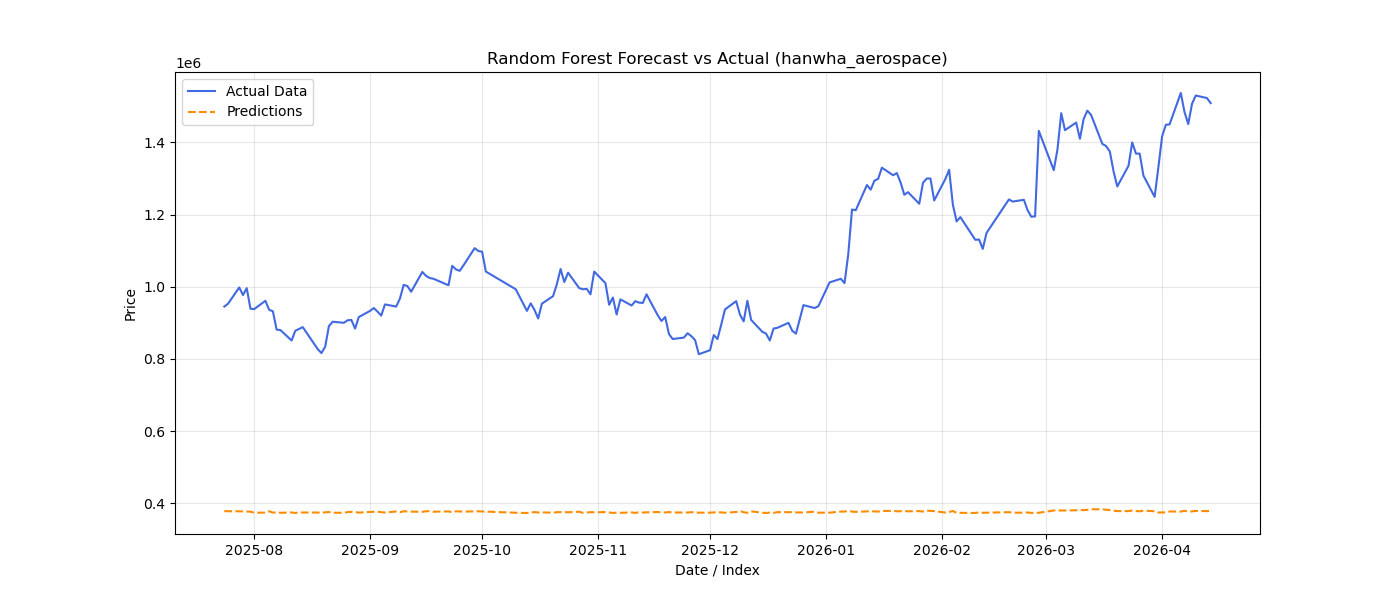
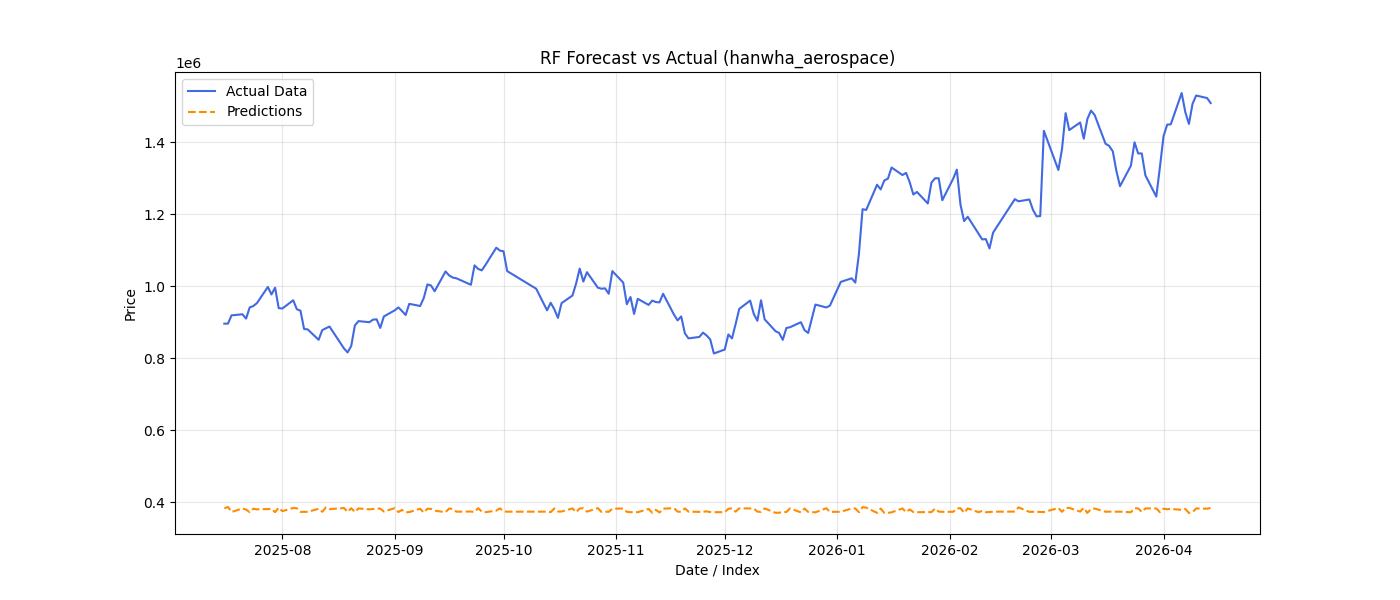
feat: implement ANN model, update feature engineering parameters, and add MBE metric to evaluation pipeline

diff --git a/src/train_ai_pipeline.py b/src/train_ai_pipeline.py
@@ -1,6 +1,7 @@
 from pathlib import Path
 import os
 import pandas as pd
+from sklearn.preprocessing import MinMaxScaler
 
 from src.data_loader import load_price_data
 from src.preprocess import (
@@ -14,27 +15,18 @@ from src.feature_engineering import (
     add_price_structure_features,
 )
 from src.split import split_time_series
-from src.ai_model import train_ai_model, predict_ai_model
+from src.ai_model import train_rf_model, train_ann_model, predict_ai_model
 from src.evaluate import evaluate_and_plot
 
 
 FEATURE_COLS = [
-    "Open",
-    "High",
-    "Low",
-    "Close",
     "Volume",
-    "ma_5",
-    "ma_20",
-    "ma_60",
-    "simple_return",
-    "log_return",
-    "volatility_5",
-    "volatility_20",
+    "ma_7",
+    "ma_14",
+    "ma_21",
+    "volatility_7",
     "hl_diff",
-    "oc_diff",
-    "close_ma5_gap",
-    "close_ma20_gap",
+    "oc_diff"
 ]
 
 TARGET_COL = "target_next_close"
@@ -42,7 +34,7 @@ TARGET_COL = "target_next_close"
 
 def train_ai_pipeline(data_name: str, file_path: str):
     print("=" * 60)
-    print(f"[AI 모델] {data_name} - Random Forest 파이프라인 시작")
+    print(f"[AI 모델] {data_name} - RF & ANN 파이프라인 시작")
     print("=" * 60)
 
     # 1. 데이터 불러오기
@@ -68,61 +60,93 @@ def train_ai_pipeline(data_name: str, file_path: str):
     print(f"  Valid: {val_df.shape}")
     print(f"  Test : {test_df.shape}")
 
-    # 6. 입력/정답 분리
-    X_train = train_df[FEATURE_COLS]
+    # 6. 입력/정답 분리 및 스케일링
+    X_train_raw = train_df[FEATURE_COLS]
     y_train = train_df[TARGET_COL]
 
-    X_test = test_df[FEATURE_COLS]
+    X_test_raw = test_df[FEATURE_COLS]
     y_test = test_df[TARGET_COL]
 
-    # 7. 모델 학습
-    model = train_ai_model(X_train, y_train)
+    scaler = MinMaxScaler()
+    X_train = scaler.fit_transform(X_train_raw)
+    X_test = scaler.transform(X_test_raw)
 
-    # 8. 예측
-    y_pred = predict_ai_model(model, X_test)
-
-    # 9. 평가용 시리즈 변환
     y_test_series = pd.Series(y_test.values, index=test_df["Date"], name="Actual")
-    y_pred_series = pd.Series(y_pred, index=test_df["Date"], name="Predicted")
 
-    # 10. 평가 및 그래프 저장
-    metrics = evaluate_and_plot(
+    # 7. Random Forest 모델 학습 및 평가
+    print(f"\n[{data_name}] Random Forest 학습 중...")
+    rf_model = train_rf_model(X_train, y_train)
+    rf_pred = predict_ai_model(rf_model, X_test)
+    rf_pred_series = pd.Series(rf_pred, index=test_df["Date"], name="Predicted")
+    
+    rf_metrics = evaluate_and_plot(
         y_true=y_test_series,
-        y_pred=y_pred_series,
-        title=f"Random Forest Forecast vs Actual ({data_name})",
+        y_pred=rf_pred_series,
+        title=f"RF Forecast vs Actual ({data_name})",
         save_dir="results/figures",
         data_name=f"rf_{data_name}",
     )
+    rf_metrics["model"] = "Random Forest"
 
-    print(f"[완료] {data_name} Random Forest 파이프라인 완료")
-    return model, metrics
+    # 8. ANN 모델 학습 및 평가
+    print(f"\n[{data_name}] ANN 학습 중...")
+    ann_model = train_ann_model(X_train, y_train)
+    ann_pred = predict_ai_model(ann_model, X_test)
+    ann_pred_series = pd.Series(ann_pred, index=test_df["Date"], name="Predicted")
+
+    ann_metrics = evaluate_and_plot(
+        y_true=y_test_series,
+        y_pred=ann_pred_series,
+        title=f"ANN Forecast vs Actual ({data_name})",
+        save_dir="results/figures",
+        data_name=f"ann_{data_name}",
+    )
+    ann_metrics["model"] = "ANN"
+
+    print(f"[완료] {data_name} 파이프라인 완료")
+    return rf_metrics, ann_metrics
 
 
 def train_all_ai_models(raw_data_dir="data/rawdata"):
+    target_companies = [
+        "hanwha_aerospace", "lig_nex1", "snt_dynamics", "firstec",
+        "samsung_electronics", "sk_hynix", "wonik_ips", "ia",
+        "rtx", "aerovironment", "draganfly", "nvidia", "axt", "maxlinear"
+    ]
+    
     csv_files = [f for f in os.listdir(raw_data_dir) if f.endswith(".csv")]
+    
+    filtered_files = []
+    for f in csv_files:
+        data_name = f.replace("_5y.csv", "").replace(".csv", "")
+        if data_name in target_companies:
+            filtered_files.append(f)
+
     all_metrics = []
 
-    print(f"총 {len(csv_files)}개 종목 RF 파이프라인 실행 시작")
+    print(f"총 {len(filtered_files)}개 종목 RF & ANN 파이프라인 실행 시작")
 
-    for f in csv_files:
+    for f in filtered_files:
         data_name = f.replace("_5y.csv", "").replace(".csv", "")
         file_path = os.path.join(raw_data_dir, f)
 
         try:
-            _, metrics = train_ai_pipeline(data_name, file_path)
-            metrics["data_name"] = data_name
-            all_metrics.append(metrics)
+            rf_metrics, ann_metrics = train_ai_pipeline(data_name, file_path)
+            rf_metrics["data_name"] = data_name
+            ann_metrics["data_name"] = data_name
+            all_metrics.append(rf_metrics)
+            all_metrics.append(ann_metrics)
         except Exception as e:
             print(f"[{data_name}] 오류 발생: {e}")
 
     df_metrics = pd.DataFrame(all_metrics)
 
     Path("results/metrics").mkdir(parents=True, exist_ok=True)
-    save_path = "results/metrics/random_forest_summary.csv"
+    save_path = "results/metrics/ai_models_summary.csv"
     df_metrics.to_csv(save_path, index=False, encoding="utf-8-sig")
 
     print("=" * 60)
-    print(f"전체 RF 결과 저장 완료: {save_path}")
+    print(f"전체 AI 모델 결과 저장 완료: {save_path}")
     print("=" * 60)
 
     return df_metrics

diff --git a/src/feature_engineering.py b/src/feature_engineering.py
@@ -3,16 +3,15 @@ import pandas as pd
 
 def add_moving_averages(df: pd.DataFrame, price_col: str = "Close") -> pd.DataFrame:
     result = df.copy()
-    result["ma_5"] = result[price_col].rolling(5).mean()
-    result["ma_20"] = result[price_col].rolling(20).mean()
-    result["ma_60"] = result[price_col].rolling(60).mean()
+    result["ma_7"] = result[price_col].rolling(7).mean()
+    result["ma_14"] = result[price_col].rolling(14).mean()
+    result["ma_21"] = result[price_col].rolling(21).mean()
     return result
 
 
 def add_volatility(df: pd.DataFrame, return_col: str = "log_return") -> pd.DataFrame:
     result = df.copy()
-    result["volatility_5"] = result[return_col].rolling(5).std()
-    result["volatility_20"] = result[return_col].rolling(20).std()
+    result["volatility_7"] = result[return_col].rolling(7).std()
     return result
 
 
@@ -20,8 +19,6 @@ def add_price_structure_features(df: pd.DataFrame) -> pd.DataFrame:
     result = df.copy()
     result["hl_diff"] = result["High"] - result["Low"]
     result["oc_diff"] = result["Open"] - result["Close"]
-    result["close_ma5_gap"] = result["Close"] - result["ma_5"]
-    result["close_ma20_gap"] = result["Close"] - result["ma_20"]
     return result
 
 

diff --git a/src/ai_model.py b/src/ai_model.py
@@ -1,7 +1,12 @@
+import os
+os.environ['TF_CPP_MIN_LOG_LEVEL'] = '2'
+
 from sklearn.ensemble import RandomForestRegressor
+from tensorflow.keras.models import Sequential
+from tensorflow.keras.layers import Dense
 
 
-def train_ai_model(X_train, y_train):
+def train_rf_model(X_train, y_train):
     model = RandomForestRegressor(
         n_estimators=200,
         random_state=42,
@@ -10,5 +15,20 @@ def train_ai_model(X_train, y_train):
     return model
 
 
+def train_ann_model(X_train, y_train):
+    model = Sequential([
+        Dense(64, activation='relu', input_shape=(X_train.shape[1],)),
+        Dense(32, activation='relu'),
+        Dense(1)
+    ])
+    model.compile(optimizer='adam', loss='mse')
+    model.fit(X_train, y_train, epochs=100, batch_size=16, verbose=0)
+    return model
+
+
 def predict_ai_model(model, X):
-    return model.predict(X)
+    pred = model.predict(X)
+    # Keras returns 2D array, RF returns 1D array
+    if len(pred.shape) > 1 and pred.shape[1] == 1:
+        pred = pred.flatten()
+    return pred

diff --git a/main.py b/main.py
@@ -1,9 +1,20 @@
+from src.train import train_all_models
+from src.train_ai_pipeline import train_all_ai_models
+
 def main():
     print("4개 모델 비교 프로젝트 시작")
-    print("1. 고전적 모델")
-    print("2. AI 기반 모델")
-    print("3. 심리 지수만 이용한 모델")
-    print("4. AI + 심리 지수 결합 최종 모델")
+    print("================================")
+    print("1. [실행됨] 고전적 모델 (ARIMA 파이프라인)")
+    print("2. [실행됨] AI 기반 모델 (RF & ANN)")
+    print("3. [대기중] 심리 지수만 이용한 모델")
+    print("4. [대기중] AI + 심리 지수 결합 최종 모델")
+    print("================================\n")
+    
+    # 1. 고전적 모델(ARIMA) 14개 종목 순회 파이프라인 실행
+    train_all_models()
+    
+    # 2. AI 기반 모델(RF, ANN) 14개 종목 순회 파이프라인 실행
+    train_all_ai_models()
 
 
 if __name__ == "__main__":

diff --git a/src/evaluate.py b/src/evaluate.py
@@ -9,13 +9,15 @@ def regression_metrics(y_true, y_pred):
     mae = mean_absolute_error(y_true, y_pred)
     rmse = np.sqrt(mean_squared_error(y_true, y_pred))
     mape = mean_absolute_percentage_error(y_true, y_pred) * 100
+    mbe = np.mean(y_pred - y_true)
     
     print("\n=== Model Prediction Metrics ===")
     print(f"  RMSE : {rmse:.4f}")
     print(f"  MAE  : {mae:.4f}")
     print(f"  MAPE : {mape:.4f}%")
+    print(f"  MBE  : {mbe:.4f}")
     
-    return {"mae": mae, "rmse": rmse, "mape": mape}
+    return {"mae": mae, "rmse": rmse, "mape": mape, "mbe": mbe}
 
 
 def direction_accuracy(y_true, y_pred):
